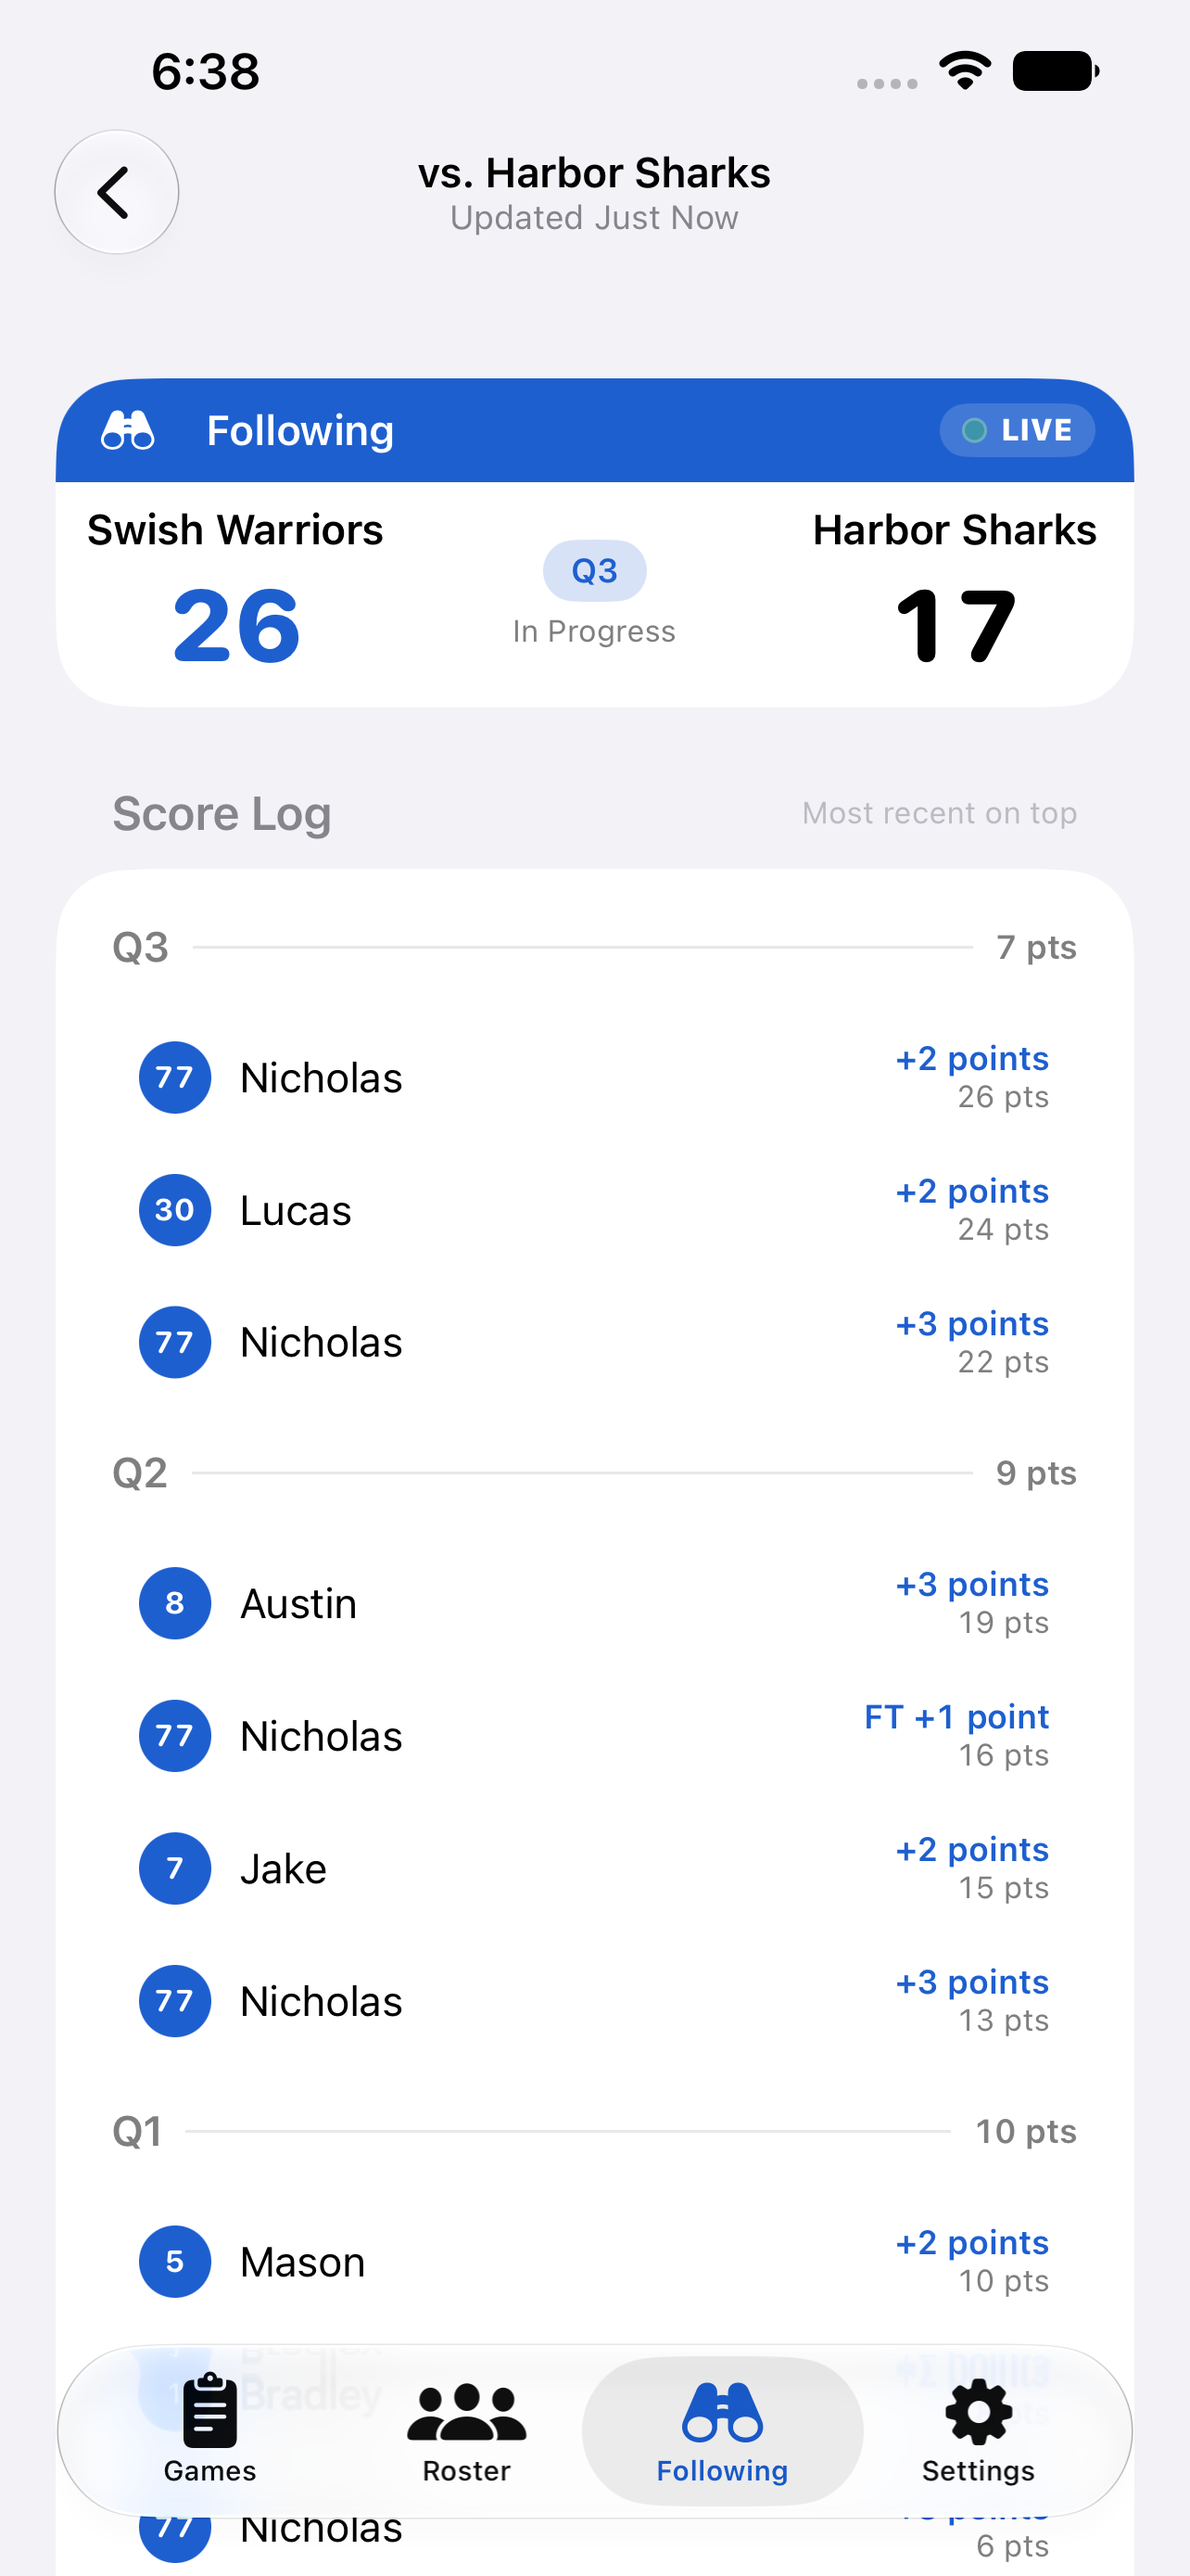
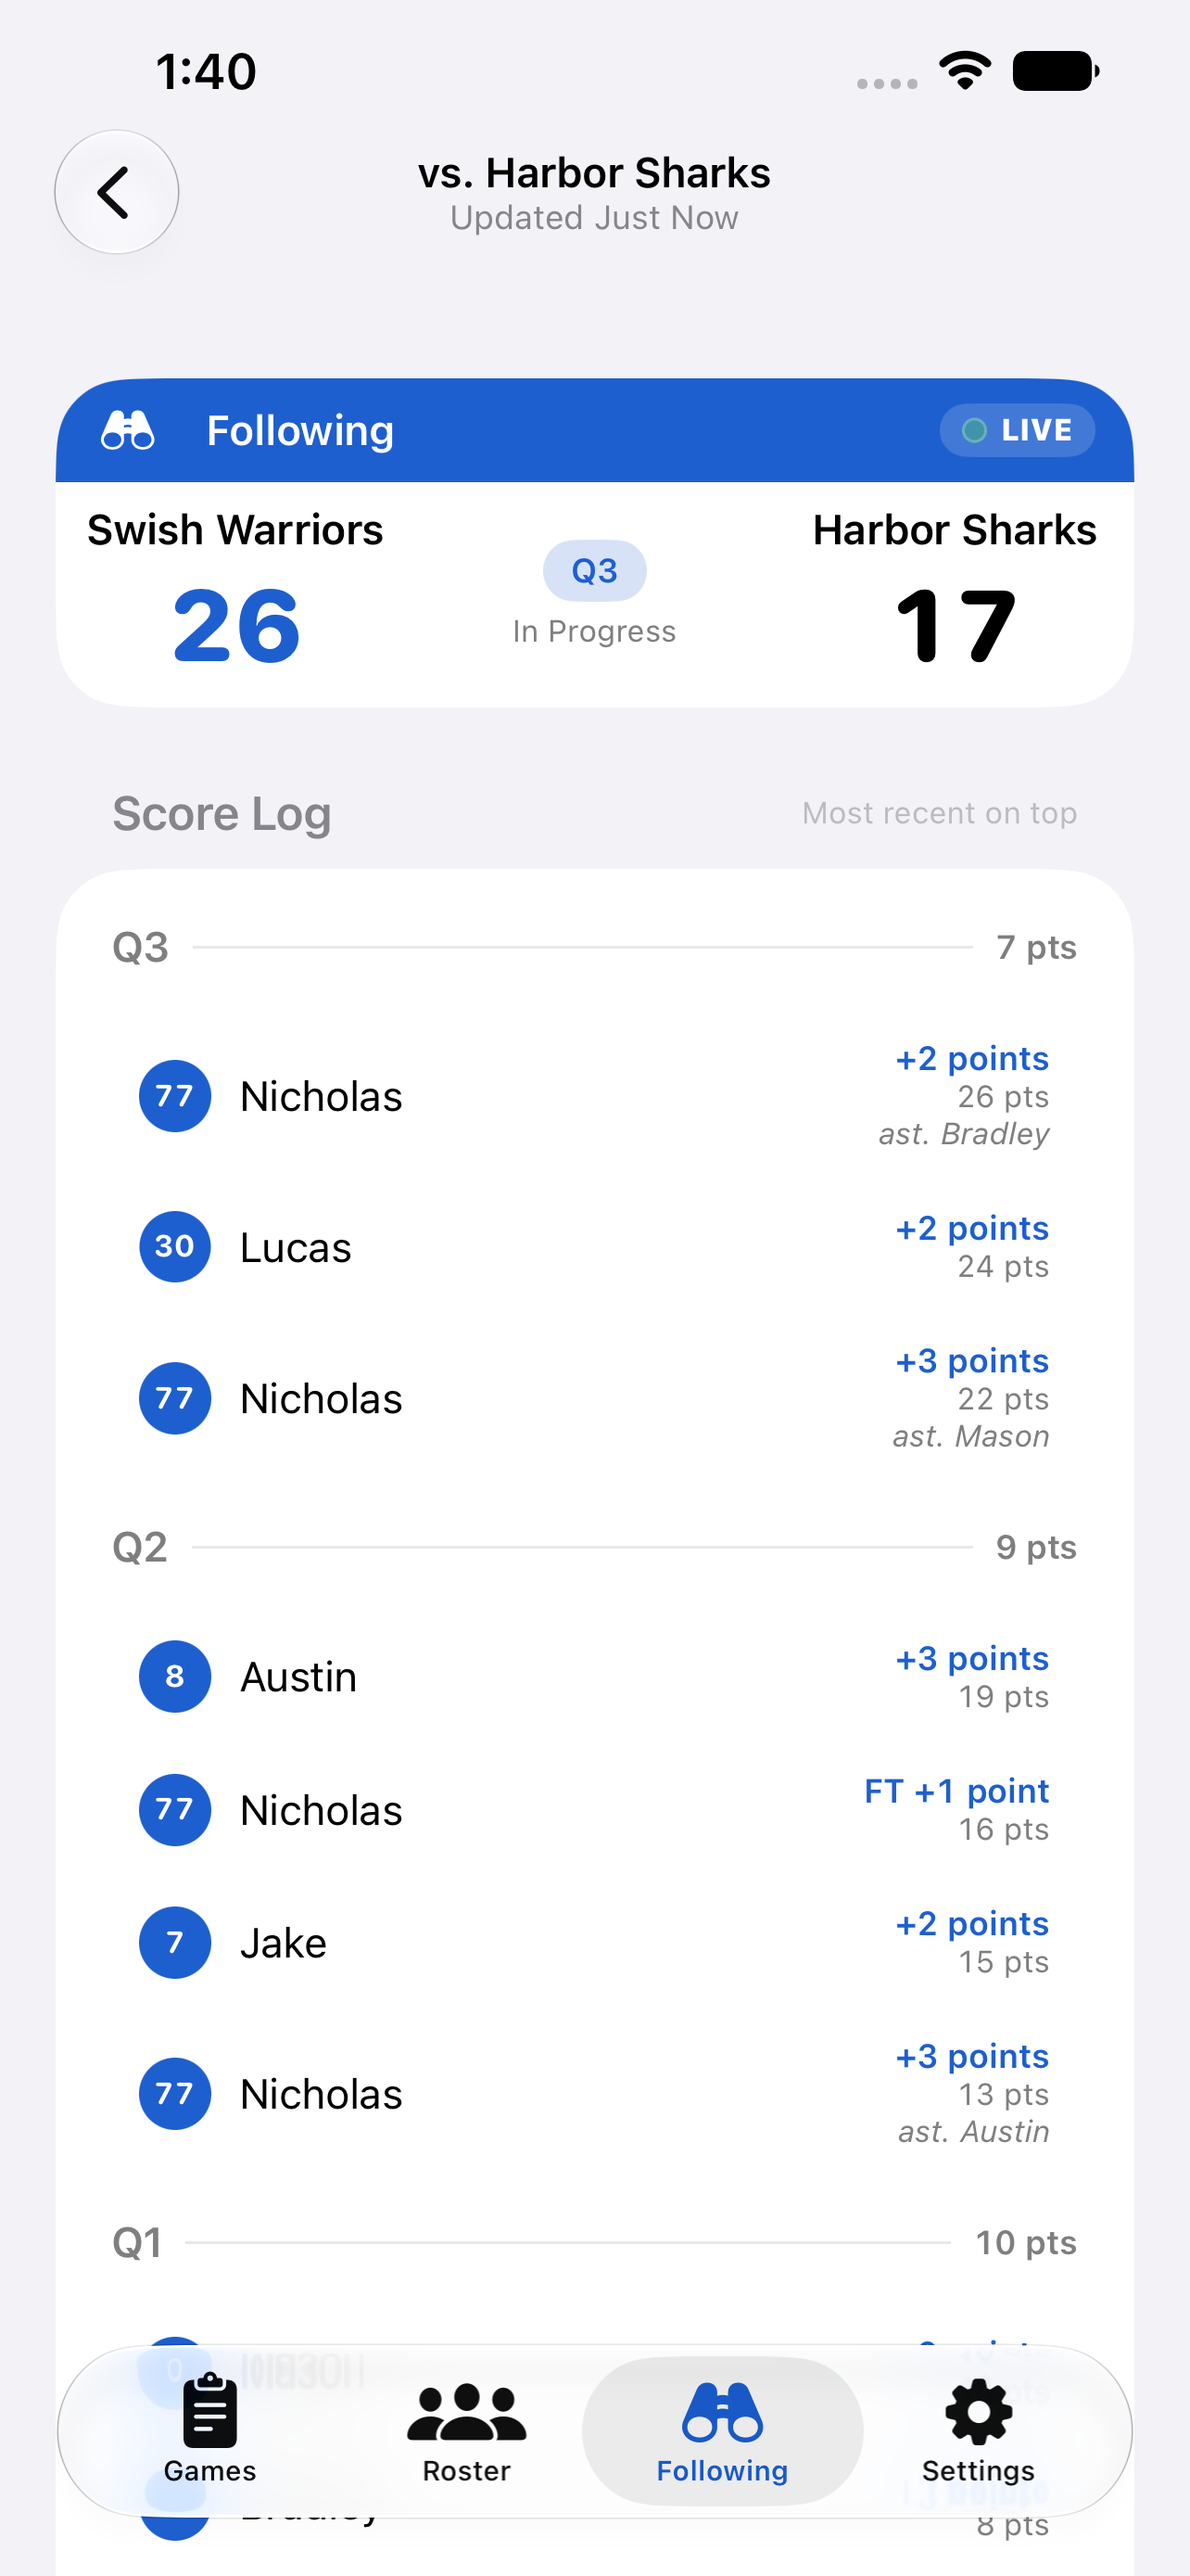
Put assists in the followed game's demo log (#167)
`04-following-game` is a store screenshot and the only one showing a
follower's score log — but the followed team's live game carried no assists,
so v1.6's headline feature was missing from the picture meant to show the app
off.

Three baskets in that game now carry one, placed so two land in Q3: the
follower's log is newest-first, so that's what's on screen before any
scrolling.

Claude-Session: https://claude.ai/code/session_01XKw3Fyr61m8RtwfRppQofX

diff --git a/CourtsideHoopStats/Models/DemoData.swift b/CourtsideHoopStats/Models/DemoData.swift
@@ -176,16 +176,25 @@ enum DemoData {
         let p = team.players   // index 8 = Nicholas H. (#77)
 
         // Live, partway through Q3. Quarter sums: 10, 9, then 7 so far = 26.
+        //
+        // Some baskets carry an assist. A follower's log is where the family
+        // sees them, and this game is the one the store screenshot comes from
+        // — without any, the headline feature of v1.6 was absent from the
+        // picture meant to show the app off. They sit in **Q3**, which is what
+        // a follower sees first: this log is newest-first.
         var liveEvents: [GameEvent] = []
-        for (index, type, period): (Int, EventType, Int) in [
+        for (index, type, period, assistIndex): (Int, EventType, Int, Int?) in [
             // Q1 = 10 — Nicholas opens with back-to-back threes.
-            (8, .threePoint, 1), (8, .threePoint, 1), (2, .twoPoint, 1), (7, .twoPoint, 1),
+            (8, .threePoint, 1, nil), (8, .threePoint, 1, 2),
+            (2, .twoPoint, 1, nil), (7, .twoPoint, 1, nil),
             // Q2 = 9
-            (8, .threePoint, 2), (4, .twoPoint, 2), (8, .ftMade, 2), (1, .threePoint, 2),
+            (8, .threePoint, 2, 1), (4, .twoPoint, 2, nil),
+            (8, .ftMade, 2, nil), (1, .threePoint, 2, nil),
             // Q3 so far = 7
-            (8, .threePoint, 3), (6, .twoPoint, 3), (8, .twoPoint, 3),
+            (8, .threePoint, 3, 7), (6, .twoPoint, 3, nil), (8, .twoPoint, 3, 2),
         ] {
-            liveEvents.append(GameEvent(playerID: p[index].id, type: type, period: period))
+            liveEvents.append(GameEvent(playerID: p[index].id, type: type, period: period,
+                                        assistPlayerID: assistIndex.map { p[$0].id }))
         }
         let live = Game(
             date: gameDate(daysFromRef: 7, hour: 1),      // 11:00 AM
